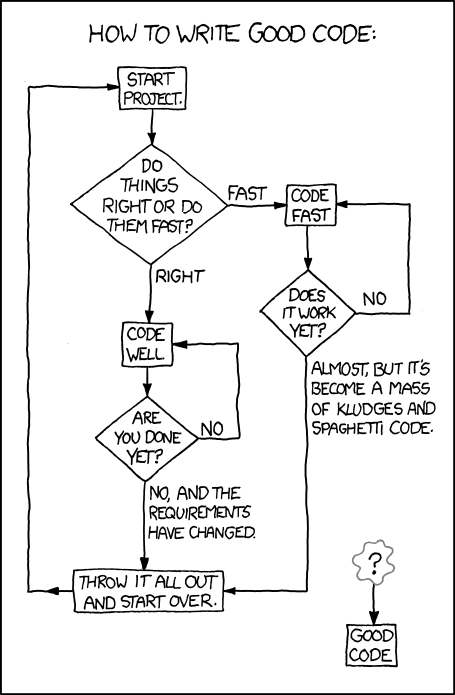
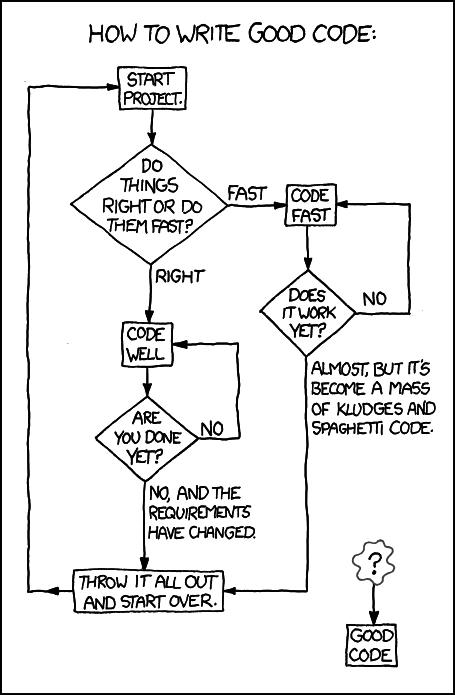
Adjust pictures for dark Mode

diff --git a/shared/globalCommon.tex b/shared/globalCommon.tex
@@ -28,7 +28,7 @@
 		\setbeamercolor*{subsection~in~toc}{parent=normal~text,fg=\thepagecolor}
 		\setbeamercolor*{footline}{parent=normal~text}
 		\setbeamercolor{block~title~alerted}{fg=white,bg=white!20!\thepagecolor}
-		\setbeamercolor*{block~body}{bg=white!10!\thepagecolor}
+		\setbeamercolor*{block~body}{bg=black!70!gray!98!blue}
 		\setbeamercolor*{block~body~alerted}{bg=\thepagecolor}
 	}
 	\cs_if_exist:NT \setbeamertemplate {
@@ -57,7 +57,7 @@
 	\IfDarkModeTF{\includegraphics[decodearray={1.0~0.0~1.0~0.0~1.0~0.0},#1]{#2}}{\includegraphics[#1]{#2}}
 }
 \newcommand{\includeinvertablegrayscalegraphics}[2][]{% Grafik wird beim Dark Mode automatisch Invertiert (grayscale)
-	\IfDarkModeTF{\includegraphics[decodearray={1.0 0.0},#1]{#2}}{\includegraphics[#1]{#2}}
+	\IfDarkModeTF{\includegraphics[decodearray={1.0~0.0},#1]{#2}}{\includegraphics[#1]{#2}}
 }
 
 % DARK_MODE environment check (enable if DARK_MODE=1)
@@ -73,7 +73,7 @@
 \newcommand{\code}{\inputminted[]{python}}
 \newmintedfile[pythonfile]{python}{
 	fontsize=\small,
-	style=\IfDarkModeTF{fruity}{friendly},
+	style=\IfDarkModeTF{native}{friendly},
 	linenos=true,
 	numberblanklines=true,
 	tabsize=4,
@@ -87,7 +87,7 @@
 	framesep=5pt,
 }
 \newmintinline{python}{
-	style=\IfDarkModeTF{fruity}{friendly},
+	style=\IfDarkModeTF{native}{friendly},
 	encoding="utf8"
 }
 
@@ -95,7 +95,7 @@
 \newminted[bashcode]{awk}{
 	escapeinside=||,
 	fontsize=\small,
-	style=\IfDarkModeTF{fruity}{friendly},
+	style=\IfDarkModeTF{native}{friendly},
 	linenos=true,
 	numberblanklines=true,
 	tabsize=4,

diff --git a/lecture/01_Einfuehrung/01_Einfuehrung.tex b/lecture/01_Einfuehrung/01_Einfuehrung.tex
@@ -19,7 +19,7 @@
 			\end{center}
 			\begin{figure}
 				\centering
-				\includeinvertablegrayscalegraphics[scale=0.3]{code_quality.png}
+				\includeinvertablegraphics[scale=0.3]{code_quality.png}
 				\\	\sffamily \tiny Bild: \href{https://xkcd.com/1513/}{https://xkcd.com/1513/}
 			\end{figure}
 		\end{column}
@@ -27,7 +27,7 @@
 			\vspace{-0.3mm}
 			\begin{figure}
 				\centering
-				\includeinvertablegrayscalegraphics[scale=0.2]{good_code.png}
+				\includeinvertablegraphics[scale=0.2]{good_code.png}
 				\\	\sffamily \tiny Bild: \href{https://xkcd.com/844/}{https://xkcd.com/844/}
 			\end{figure}
 		\end{column}
@@ -106,7 +106,7 @@
 				\draw[->,line width=.6mm] (mensch.south) -- (interpreter.north);
 				}
 				\visible<3->{
-				\node[fill=lightgray,draw, inner sep=5pt, rounded rectangle] (computer) at (0,-4) {Computer};
+				\node[fill=\IfDarkModeTF{.!30!\thepagecolor}{lightgray},draw, inner sep=5pt, rounded rectangle] (computer) at (0,-4) {Computer};
 				\draw[->,line width=.6mm] (interpreter.south) -- (computer.north);
 				}
 			\end{tikzpicture}
@@ -257,7 +257,7 @@
 
 	\begin{center}
 		\vskip -10 pt
-		\includegraphics[scale=0.25]{HelloWorldImEditor}
+		\includegraphics[scale=0.25]{HelloWorldImEditor\IfDarkModeT{_dark}}
 	\end{center}
 
 	\begin{itemize}
